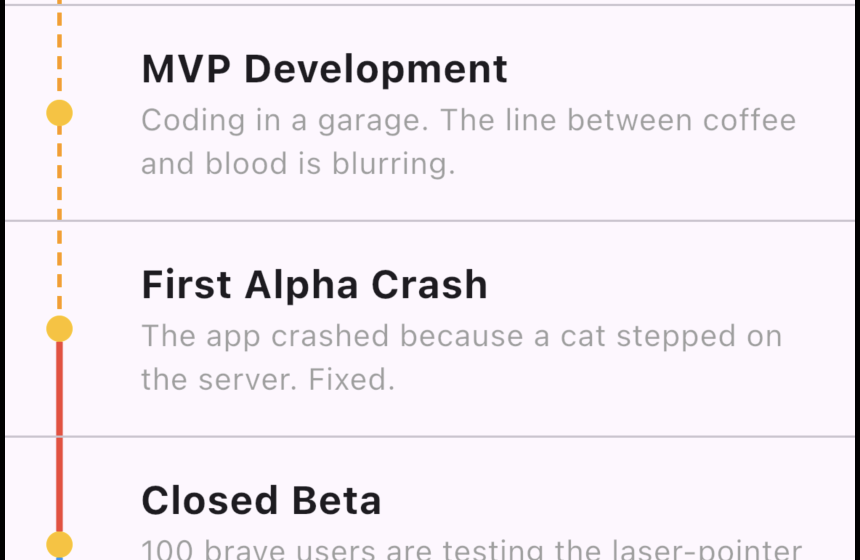
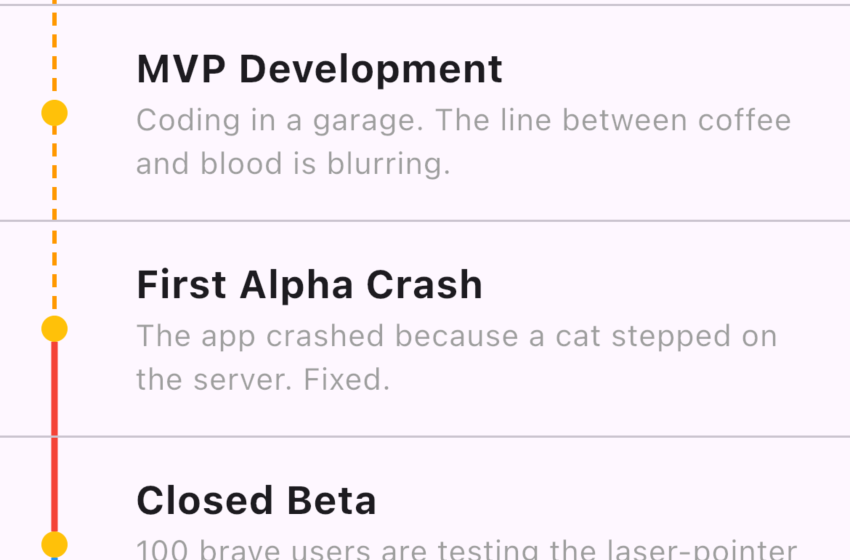
New approach to build chained items list

diff --git a/example/lib/data/tailed_mock_data.dart b/example/lib/data/tailed_mock_data.dart
@@ -1,0 +1,50 @@
+import 'package:chained_list/chained_list.dart';
+import 'package:flutter/material.dart';
+
+final tailedItems = [
+  TailData(
+    iconStyle: IconIndicatorStyle(
+      iconSize: 30,
+      color: Colors.brown,
+      iconData: Icons.add_circle_outline,
+    ),
+    lineStyle: ChainLineStyle(color: Colors.brown),
+    indicatorWidth: 50,
+  ),
+  TailData(
+    iconStyle: IconIndicatorStyle(
+      iconSize: 30,
+      color: Colors.blueGrey,
+      iconData: Icons.flag_circle,
+    ),
+    lineStyle: ChainLineStyle(color: Colors.blueGrey),
+    indicatorWidth: 50,
+  ),
+  TailData(
+    iconStyle: IconIndicatorStyle(
+      iconSize: 30,
+      color: Colors.blueGrey,
+      iconData: Icons.add_circle,
+    ),
+    lineStyle: ChainLineStyle(color: Colors.blueGrey),
+    indicatorWidth: 50,
+  ),
+  TailData(
+    iconStyle: IconIndicatorStyle(
+      iconSize: 30,
+      color: Colors.green,
+      iconData: Icons.circle_notifications,
+    ),
+    lineStyle: ChainLineStyle(color: Colors.green),
+    indicatorWidth: 50,
+  ),
+  TailData(
+    iconStyle: IconIndicatorStyle(
+      iconSize: 30,
+      color: Colors.purple,
+      iconData: Icons.stop_circle_sharp,
+    ),
+    lineStyle: ChainLineStyle(color: Colors.purple),
+    indicatorWidth: 50,
+  ),
+];

diff --git a/example/lib/pages/case_tailed_list.dart b/example/lib/pages/case_tailed_list.dart
@@ -1,0 +1,42 @@
+import 'package:chained_list/chained_list.dart';
+import 'package:example/data/order_mock_data.dart';
+import 'package:example/data/tailed_mock_data.dart';
+import 'package:flutter/material.dart';
+
+class CaseTailedList extends StatelessWidget {
+  const CaseTailedList({super.key});
+
+  @override
+  Widget build(BuildContext context) {
+    List<DoubleChainedTile?> resultList = [];
+    for (var i = 0; i < tailedItems.length; i++) {
+      final item = tailedItems[i];
+      resultList.add(
+        item.convertToTiles(
+          index: i,
+          allTails: tailedItems,
+          child: getByIndex(i),
+        ),
+      );
+    }
+
+    return Scaffold(
+      appBar: AppBar(title: Text('Icons + tailed list')),
+      body: ListView(children: resultList.nonNulls.toList()),
+    );
+  }
+
+  Widget getByIndex(int index) => Column(
+    crossAxisAlignment: CrossAxisAlignment.start,
+    children: [
+      Text(
+        orderDataIcons[index].text,
+        style: TextStyle(fontWeight: FontWeight.bold, fontSize: 18),
+      ),
+      Text(
+        'Update received at ${12 + index}:00 PM',
+        style: TextStyle(color: Colors.grey),
+      ),
+    ],
+  );
+}

diff --git a/lib/src/model/tail_data.dart b/lib/src/model/tail_data.dart
@@ -1,0 +1,42 @@
+import 'package:chained_list/chained_list.dart';
+import 'package:flutter/material.dart';
+
+class TailData {
+  const TailData({
+    required this.lineStyle,
+    required this.iconStyle,
+    this.indicatorWidth = 50.0,
+  });
+
+  /// Horizontal size of the indicator widget
+  final double indicatorWidth;
+
+  /// The style of connection line
+  final ChainLineStyle lineStyle;
+
+  /// If set - defines custom icon style
+  final IconIndicatorStyle? iconStyle;
+}
+
+extension TailedTileX on TailData {
+  DoubleChainedTile? convertToTiles({
+    required Widget child,
+    required int index,
+    required List<TailData> allTails,
+  }) {
+    if (allTails.isEmpty) return null;
+
+    final coreItem = allTails.elementAtOrNull(index);
+    if (coreItem == null) return null;
+
+    final topItem = index >= 1 ? allTails.elementAtOrNull(index - 1) : null;
+
+    return DoubleChainedTile(
+      iconStyle: coreItem.iconStyle,
+      indicatorWidth: coreItem.indicatorWidth,
+      bottomLineStyle: index == allTails.length - 1 ? null : coreItem.lineStyle,
+      topLineStyle: topItem?.lineStyle,
+      child: child,
+    );
+  }
+}

diff --git a/example/lib/home_page.dart b/example/lib/home_page.dart
@@ -2,6 +2,7 @@ import 'package:example/pages/case_circles.dart';
 import 'package:example/pages/case_custom_icons.dart';
 import 'package:example/pages/case_dual_lines.dart';
 import 'package:example/pages/case_icons.dart';
+import 'package:example/pages/case_tailed_list.dart';
 import 'package:example/pages/direct_indicator_usage.dart';
 import 'package:flutter/material.dart';
 
@@ -37,6 +38,10 @@ class HomePage extends StatelessWidget {
       LibraryExample(
         title: 'Direct ChainedIndicator usage',
         page: const DirectChainIndicatorUsage(),
+      ),
+      LibraryExample(
+        title: 'Icon + tail example',
+        page: const CaseTailedList(),
       ),
     ];
 

diff --git a/lib/chained_list.dart b/lib/chained_list.dart
@@ -3,4 +3,5 @@ export 'package:chained_list/src/double_chained_tile.dart';
 export 'package:chained_list/src/model/chain_line_style.dart';
 export 'package:chained_list/src/model/chain_indicator_style.dart';
 export 'package:chained_list/src/model/dash_params.dart';
+export 'package:chained_list/src/model/tail_data.dart';
 export 'package:chained_list/src/widget/chained_indicator.dart';

diff --git a/lib/src/widget/chained_indicator.dart b/lib/src/widget/chained_indicator.dart
@@ -106,6 +106,6 @@ class ChainedIndicator extends StatelessWidget {
     if (circleStyle == null && iconStyle == null) return 0;
     final circlePadding = circleStyle != null ? circleStyle!.radius / 2 : 0.0;
     final iconPadding = iconStyle != null ? iconStyle!.iconSize / 2 : 0.0;
-    return max(circlePadding, iconPadding);
+    return max(circlePadding, iconPadding) - 1.8;
   }
 }

diff --git a/README.md b/README.md
@@ -29,7 +29,6 @@ There are two ways to implement this:
 1) __High-Level Tiles__: Use `ChainedTile` or `DoubleChainedTile` for automatic layout.
 2) __Low-Level Indicator__: Use `ChainedIndicator` directly if you need full control over placement (requires manual sizing).
 
-
 ## ChainedTile
 
 Use this when the line style above and below the indicator is the same. It automatically handles the top and bottom lines for the first and last items.
@@ -81,14 +80,52 @@ class ChainedIndicator extends StatelessWidget {
 }
 ```
 
+## TailData
+
+Also for easier library usage it is possible to take `TailData` helper class.
+
+```dart
+TailData {
+  final double indicatorWidth;          /// Horizontal size of the indicator widget
+  final ChainLineStyle lineStyle;       /// The style of connection line
+  final IconIndicatorStyle? iconStyle;  /// If set - defines custom icon style
+  }
+```
+
+This class is helpful to process items as center icon + bottom line. 
+
+![exaple of double chained item](./screenshot/tailed_chain.png)
+
+So, for the first item in the list there will be to upper tail, just lower one. A middle item will have both center icon and tail and the last one will have only center icon without line. As always, `indicatorWidth` represents with of all items and should be bigger then centered icon.
+
+### Usage
+
+As `TailData` is simple data-class, it cannot be directly used in widget tree. There is helper `convertToTiles()` function which converts it to properly configured ChainedIndicator list. 
+
+As real ChainedIndicator item depends on two subsequental items of TailData, to use `convertToTiles` user need to pass all items while mapping one TailData to ChainedIndicator:
+
+```dart
+for (var i = 0; i < tailedItems.length; i++) {
+      final item = tailedItems[i];
+      resultList.add(
+        item.convertToTiles(
+          index: i,
+          allTails: tailedItems,
+          child: getByIndex(i),
+        ),
+      );
+    }
+```
+
+or use `.mapIndexed()` from the collection library.
+
 #### Pro-Tip: Vertical Synchronization
 
 The verticalOffset property is crucial for __dashed lines__. Since list items often have different heights, the dash pattern might "break" between tiles. Passing the cumulative height/offset ensures the dashes connect smoothly from one tile to the next.
 
 ## Future plans
 
-1. Left/Right setting
-2. More styling (?)
+Left/Right setting
 
 ## Contributing
 
